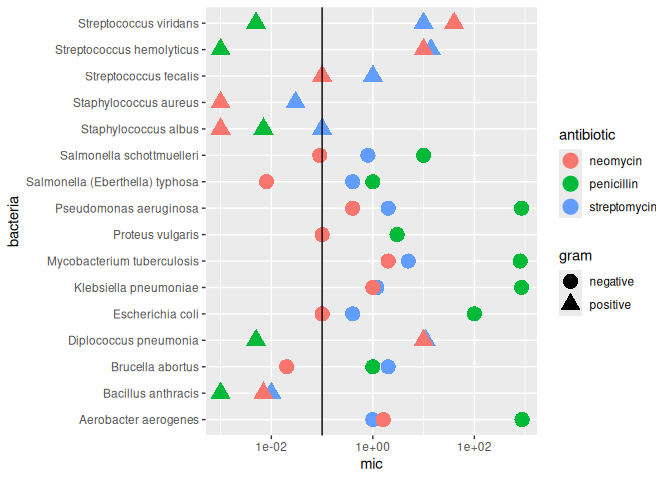
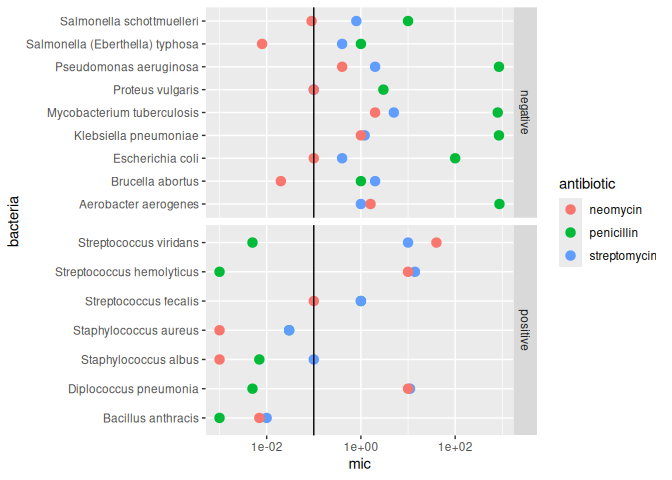
finished challenge 05 (for real this time)

diff --git a/challenges/c05-antibiotics-assignment.md b/challenges/c05-antibiotics-assignment.md
@@ -179,7 +179,9 @@ theme_common <- function() {
     plot.title = element_text(size = 18),
     plot.title.position = "plot",
     plot.subtitle = element_text(size = 16),
-    plot.caption = element_text(size = 12)
+    plot.caption = element_text(size = 12),
+
+    panel.border = element_rect(colour = "black", fill = NA, linewidth = 1)
   )
 }
 ```
@@ -221,10 +223,15 @@ df_antibiotics |>
     names_to = "antibiotic",
     values_to = "mic"
   ) |>
-  ggplot(aes(x = mic, y = bacteria, shape = gram, color = antibiotic)) +
-  geom_point(size = 5) +
+  ggplot(aes(
+    x = mic,
+    y = bacteria,
+    color = antibiotic
+  )) +
+  geom_point(size = 3) +
   scale_x_log10() +
-  geom_vline(xintercept = 0.1)
+  geom_vline(xintercept = 0.1) +
+  facet_grid(gram ~ ., scales = "free_y")
 ```
 
 ![](c05-antibiotics-assignment_files/figure-gfm/q1.2-1.png)<!-- -->
@@ -240,15 +247,21 @@ your other visuals.
 
 ``` r
 df_antibiotics |>
+  pivot_longer(
+    cols = c(penicillin, streptomycin, neomycin),
+    names_to = "antibiotic",
+    values_to = "mic"
+  ) |>
   ggplot(aes(
-    x = streptomycin,
-    y = fct_reorder(bacteria, streptomycin),
+    x = mic,
+    y = fct_reorder(bacteria, mic),
     color = gram
   )) +
   geom_point(size = 5) +
   scale_x_log10() +
   theme_common() +
-  geom_vline(xintercept = 0.1)
+  geom_vline(xintercept = 0.1) +
+  facet_grid(. ~ antibiotic)
 ```
 
 ![](c05-antibiotics-assignment_files/figure-gfm/q1.3-1.png)<!-- -->
@@ -264,18 +277,87 @@ your other visuals.
 
 ``` r
 df_antibiotics |>
+  separate(
+    col = bacteria,
+    into = c("genus", "species"),
+    sep = " "
+  ) |>
   ggplot(aes(
     x = streptomycin,
-    y = neomycin,
-    color = gram
+    y = neomycin
   )) +
   geom_point(size = 5) +
   theme_common() +
   scale_x_log10() +
-  scale_y_log10()
+  scale_y_log10() +
+  geom_point(
+    data = . %>% filter(genus %in% c(
+      "Streptococcus", "Salmonella", "Staphylococcus", "Diplococcus"
+    )),
+    mapping = aes(color = genus),
+    size = 5
+  )
 ```
 
-![](c05-antibiotics-assignment_files/figure-gfm/q1.4-1.png)<!-- -->
+    ## Warning: Expected 2 pieces. Additional pieces discarded in 1 rows [10].
+
+![](c05-antibiotics-assignment_files/figure-gfm/q1.4.1-1.png)<!-- -->
+
+``` r
+df_antibiotics |>
+  separate(
+    col = bacteria,
+    into = c("genus", "species"),
+    sep = " "
+  ) |>
+  ggplot(aes(
+    x = streptomycin,
+    y = penicillin
+  )) +
+  geom_point(size = 5) +
+  theme_common() +
+  scale_x_log10() +
+  scale_y_log10() +
+  geom_point(
+    data = . %>% filter(genus %in% c(
+      "Streptococcus", "Salmonella", "Staphylococcus", "Diplococcus"
+    )),
+    mapping = aes(color = genus),
+    size = 5
+  )
+```
+
+    ## Warning: Expected 2 pieces. Additional pieces discarded in 1 rows [10].
+
+![](c05-antibiotics-assignment_files/figure-gfm/q1.4.2-1.png)<!-- -->
+
+``` r
+df_antibiotics |>
+  separate(
+    col = bacteria,
+    into = c("genus", "species"),
+    sep = " "
+  ) |>
+  ggplot(aes(
+    x = neomycin,
+    y = penicillin
+  )) +
+  geom_point(size = 5) +
+  theme_common() +
+  scale_x_log10() +
+  scale_y_log10() +
+  geom_point(
+    data = . %>% filter(genus %in% c(
+      "Streptococcus", "Salmonella", "Staphylococcus", "Diplococcus"
+    )),
+    mapping = aes(color = genus),
+    size = 5
+  )
+```
+
+    ## Warning: Expected 2 pieces. Additional pieces discarded in 1 rows [10].
+
+![](c05-antibiotics-assignment_files/figure-gfm/q1.4.3-1.png)<!-- -->
 
 #### Visual 5 (Some variables)
 
@@ -295,11 +377,11 @@ df_antibiotics |>
     values_to = "mic"
   ) |>
   ggplot(aes(x = mic, color = antibiotic)) +
-  # geom_freqpoly(bins = 10) +
   geom_density() +
   theme_common() +
   scale_x_log10() +
-  geom_vline(xintercept = 0.1)
+  geom_vline(xintercept = 0.1) +
+  facet_grid(. ~ gram)
 ```
 
 ![](c05-antibiotics-assignment_files/figure-gfm/q1.5-1.png)<!-- -->
@@ -323,20 +405,18 @@ opportunity to think about why this is.**
 > How do the three antibiotics vary in their effectiveness against
 > bacteria of different genera and Gram stain?
 
-*Observations* - What is your response to the question above? - Based on
-their MIC values for all the different bacteria tested, neomycin had the
-most MIC values that were lower (less than 0.1). - There are many
-bacteria which had similar MIC values for neomycin and streptomycin,
-while penicillin was often very far away from them in value. -
-Penicillin, though effective for some bacteria, had very high MIC values
-(the highest of all the antibiotics) for some others (namely pseudomonas
-aeruginosa, mycobacterium tuberculosis, escherichia coli, and aerobacter
-aerogenes). - Which of your visuals above (1 through 5) is **most
-effective** at helping to answer this question? - Visual 2 and 5 -
-Why? - From visual 5, it was very clear what range of MIC values each
-antibiotic had the most of. - Visual 2 gave very specific information on
-all 3 antibiotics’ MIC values for every individual bacterium, while also
-being able to easily compare values between different bacteria.
+*Observations* - What is your response to the question above? - Neomycin
+and streptomycin seem to be very similar in their effectiveness against
+different bacteria. For gram negative bacteria, they tend to have MIC
+values in the middle of the range. For gram positive bacteria, their MIC
+values are either very low or very high. - Penicillin is very
+ineffective for gram negative bacteria (all MIC values are greater than
+0.1) and very effective for gram positive bacteria (almost all MIC
+values are below 0.1). - Which of your visuals above (1 through 5) is
+**most effective** at helping to answer this question? - Visual 3 -
+Why? - From visual 3, it was visible which bacteria a specific
+antibiotic was effective or ineffective against, and whether those
+bacteria are gram positive or negative.
 
 #### Guiding Question 2
 
@@ -347,12 +427,12 @@ and in 1984 *Streptococcus fecalis* was renamed *Enterococcus fecalis*
 > Why was *Diplococcus pneumoniae* was renamed *Streptococcus
 > pneumoniae*?
 
-*Observations* - What is your response to the question above? - It was
-possibly renamed because it is especially resistant to streptomycin. -
-Which of your visuals above (1 through 5) is **most effective** at
-helping to answer this question? - Visual 1 - Why? - Visual 1 gave very
-specific information on all 3 antibiotics’ MIC values for every
-individual bacterium.
+*Observations* - What is your response to the question above? - It is
+very similar to other Streptococcus bacteria. - Which of your visuals
+above (1 through 5) is **most effective** at helping to answer this
+question? Visual 4 - Why? - Visual 4 shows that Diplococcus pneumoniae’s
+response to antibiotics closely matches the responses of other
+Streptococcus bacteria, signifying that it is similar to them.
 
 # References
 
